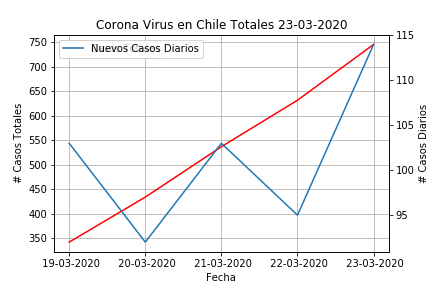
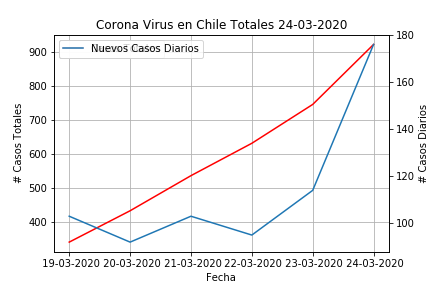
refresh

diff --git a/readme.md b/readme.md
@@ -135,3 +135,25 @@ z
 | 16 | Aysén              |              0 |               1 |            0 |             0 | 23-03-2020 |
 | 17 | Magallanes         |              2 |               6 |            0 |             0 | 23-03-2020 |
 | 18 | Total              |            114 |             746 |            1 |            11 | 23-03-2020 |
+
+### 24-03-2020
+<img src="https://github.com/sundios/Chile-coronavirus/blob/master/Images/24-03-2020.png" width="60%" height="100%"> 
+|    | Region             |   Nuevos Casos |   Casos Totales |   Fallecidos |   Recuperados | Dates      |
+|---:|:-------------------|---------------:|----------------:|-------------:|--------------:|:-----------|
+|  2 | Arica y Parinacota |              0 |               2 |            0 |             0 | 24-03-2020 |
+|  3 | Tarapacá           |              3 |               4 |            0 |             0 | 24-03-2020 |
+|  4 | Antofagasta        |              2 |              13 |            0 |             0 | 24-03-2020 |
+|  5 | Atacama            |              0 |               1 |            0 |             0 | 24-03-2020 |
+|  6 | Coquimbo           |              5 |              11 |            0 |             0 | 24-03-2020 |
+|  7 | Valparaíso         |              6 |              25 |            0 |             0 | 24-03-2020 |
+|  8 | Metropolitana      |             81 |             540 |            2 |             0 | 24-03-2020 |
+|  9 | O’Higgins          |              1 |               9 |            0 |             0 | 24-03-2020 |
+| 10 | Maule              |              1 |              29 |            0 |             0 | 24-03-2020 |
+| 11 | Ñuble              |             24 |             105 |            0 |             0 | 24-03-2020 |
+| 12 | Biobío             |             27 |              73 |            0 |             0 | 24-03-2020 |
+| 13 | Araucanía          |             19 |              59 |            0 |             0 | 24-03-2020 |
+| 14 | Los Ríos           |              2 |               6 |            0 |             0 | 24-03-2020 |
+| 15 | Los Lagos          |              3 |              36 |            0 |             0 | 24-03-2020 |
+| 16 | Aysén              |              0 |               1 |            0 |             0 | 24-03-2020 |
+| 17 | Magallanes         |              2 |               8 |            0 |             0 | 24-03-2020 |
+| 18 | Total              |            176 |             922 |            2 |            17 | 24-03-2020 |
